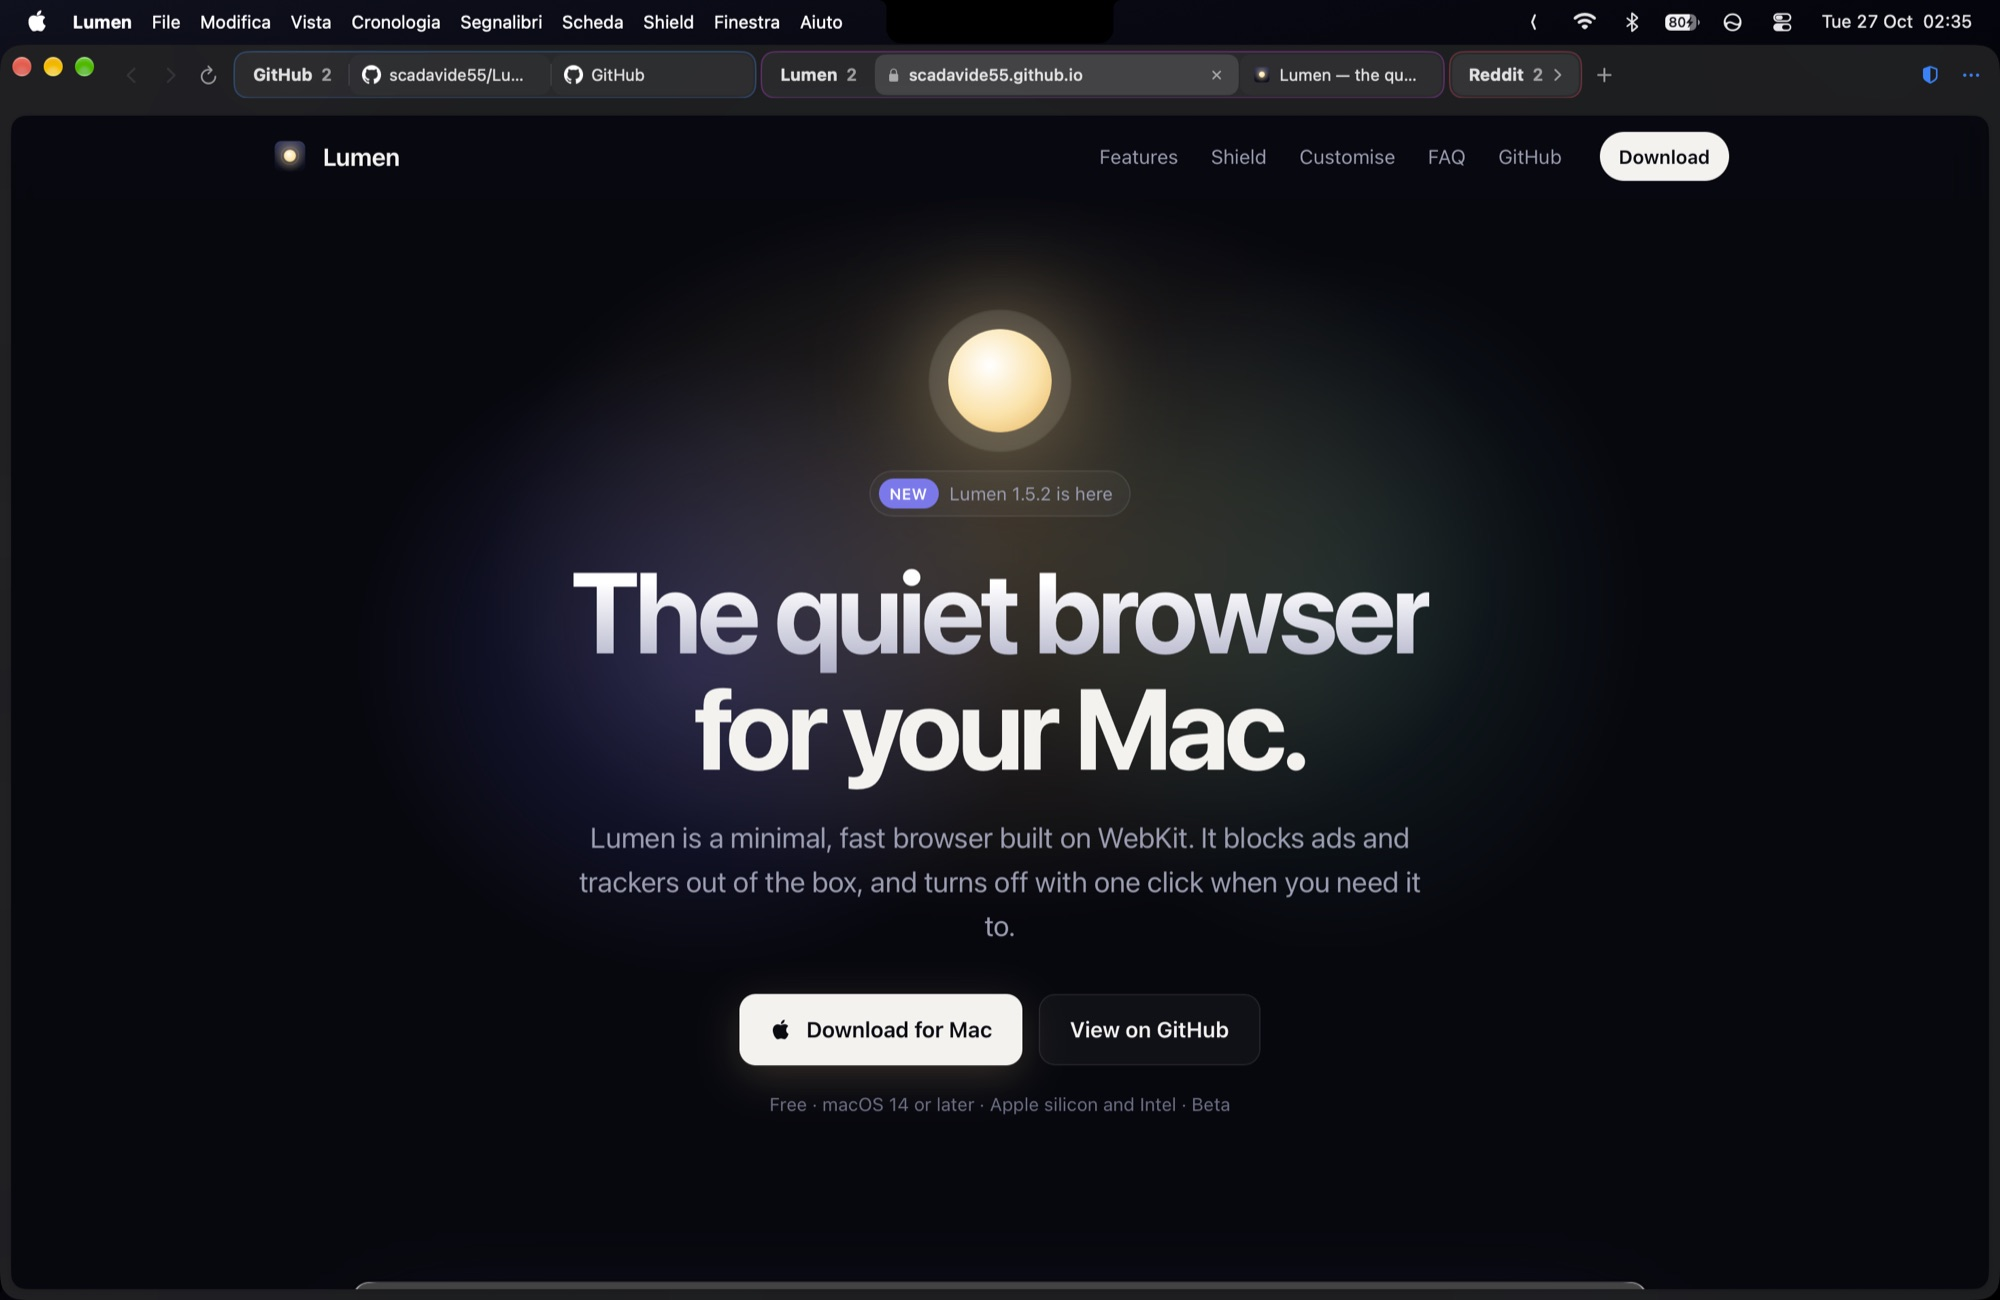
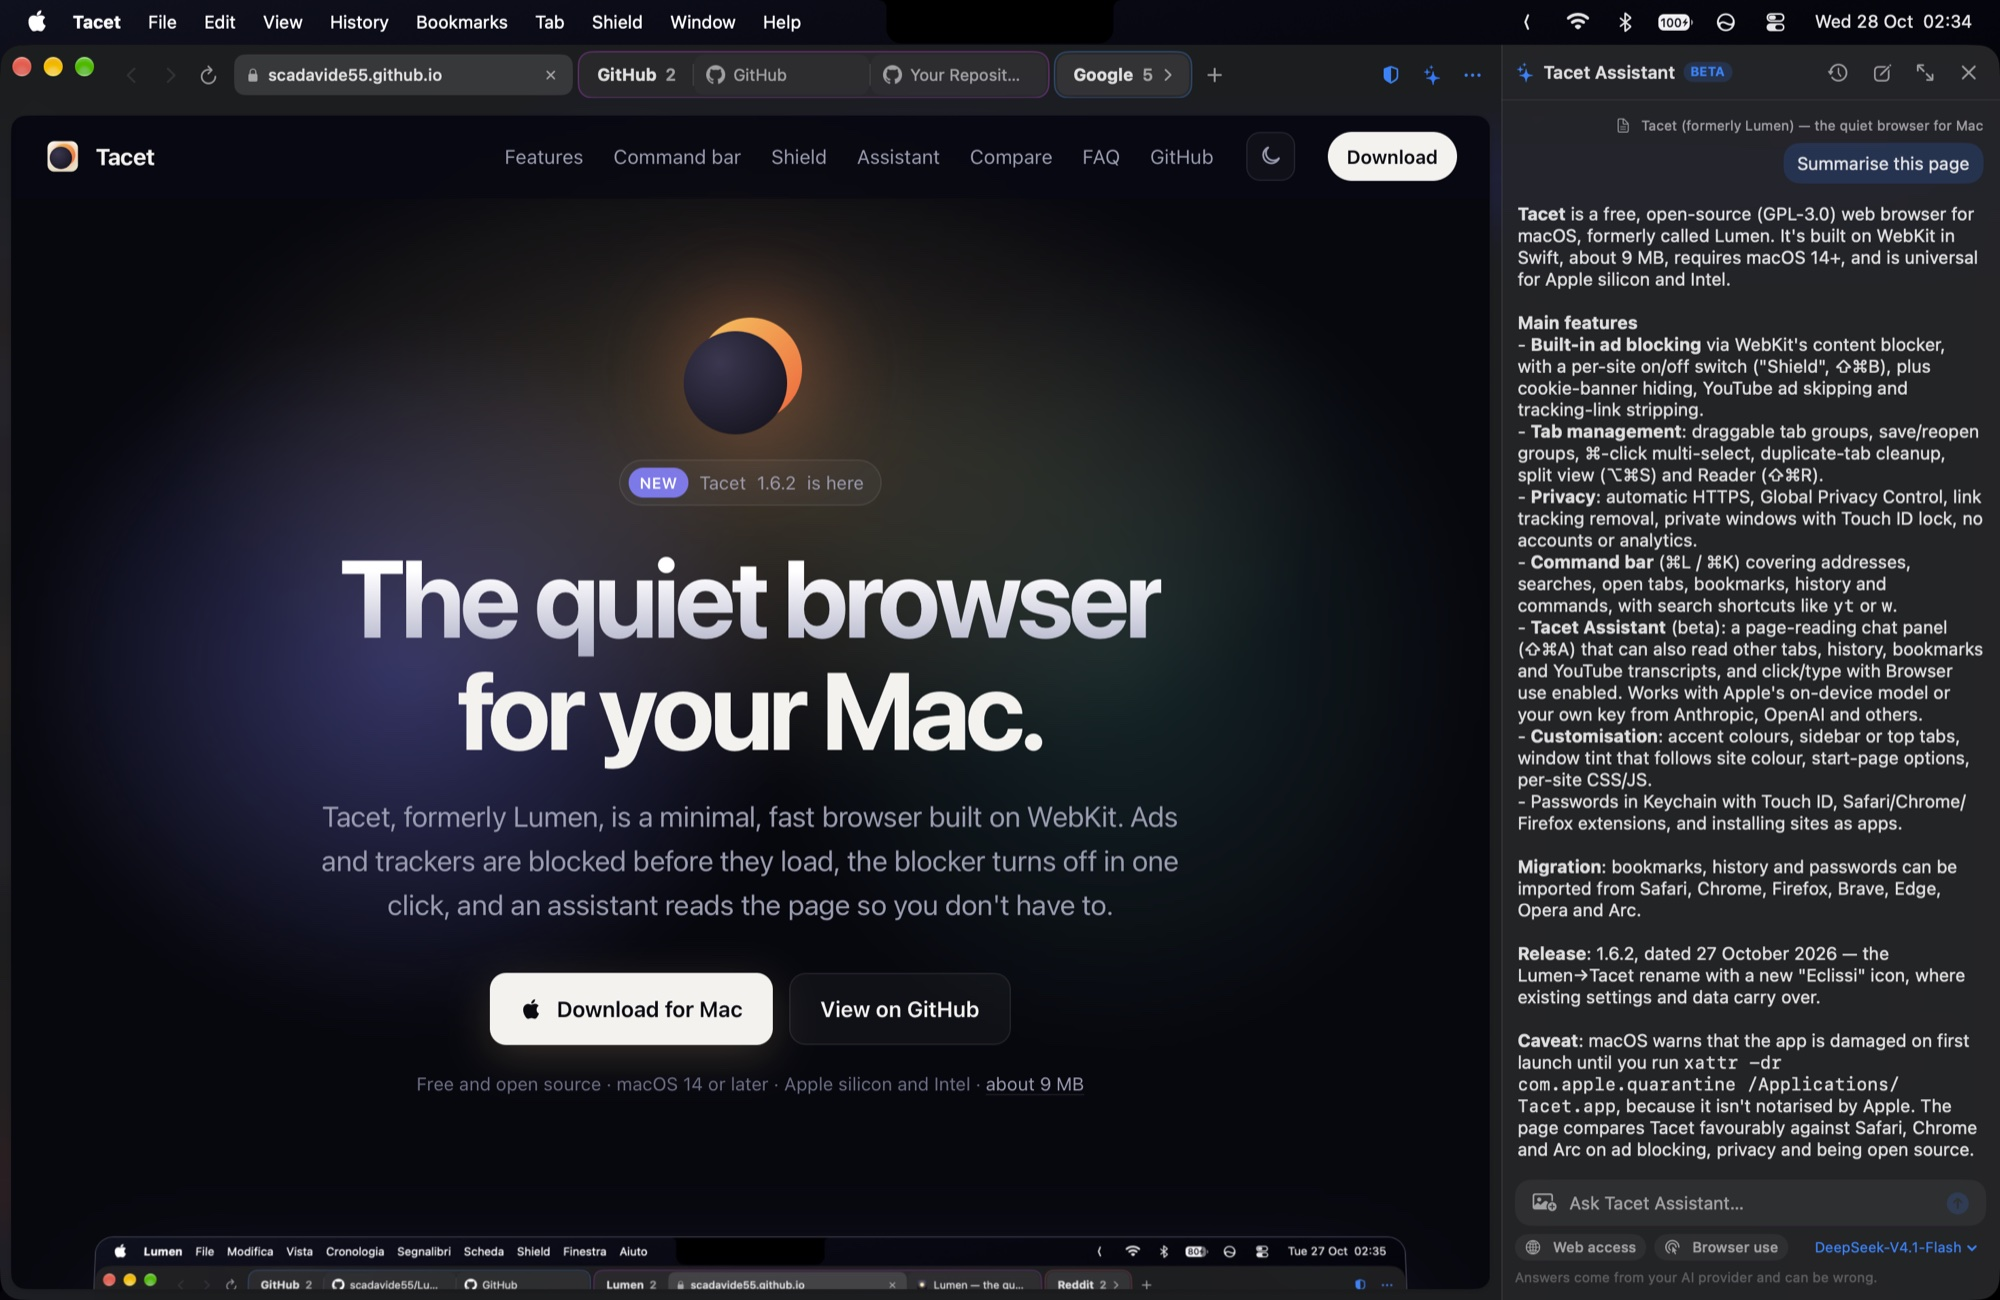
New main screenshot: Tacet with its website open and Tacet Assistant summarising it

diff --git a/docs/index.html b/docs/index.html
@@ -596,7 +596,7 @@ footer .bottom { margin-top: 36px; padding-top: 20px; border-top: 1px solid var(
     </div>
     <p class="fine">Free and open source · macOS 14 or later · Apple silicon and Intel · <a href="#download">about 9 MB</a></p>
     <figure class="shot" id="shot">
-      <div class="frame"><img src="assets/screenshot.jpg" width="2000" height="1300" alt="The Tacet window with tabs along the top and the Tacet website open" fetchpriority="high"></div>
+      <div class="frame"><img src="assets/screenshot.jpg" width="2000" height="1300" alt="Tacet with its website open and Tacet Assistant summarising the page" fetchpriority="high"></div>
       <div class="chip c1" aria-hidden="true">
         <svg viewBox="0 0 24 24" fill="currentColor"><path d="M12 2l8 3.4v5.8c0 5-3.4 9.5-8 10.8-4.6-1.3-8-5.8-8-10.8V5.4L12 2z" opacity=".35"/><path d="M12 2v20c-4.6-1.3-8-5.8-8-10.8V5.4L12 2z"/></svg>
         <div><b><span id="chip-n">0</span> blocked</b><span>on this page</span></div>

diff --git a/README.md b/README.md
@@ -20,8 +20,8 @@ A minimal, fast and private macOS browser built on WebKit, with a native ad bloc
 
 [**Download**](https://github.com/scadavide55/Tacet/releases) · [**Website**](https://scadavide55.github.io/Tacet/) · [**Release notes**](https://github.com/scadavide55/Tacet/releases)
 
-*Image from Lumen 1.5.3 Developer Beta*
-<img src="docs/assets/screenshot.jpg" alt="The Tacet window with tabs along the top" width="860">
+*Image from Tacet 1.6.2*
+<img src="docs/assets/screenshot.jpg" alt="Tacet with its website open and Tacet Assistant summarising the page" width="860">
 
 <img src="docs/assets/groups.png" alt="Tab groups along the top of the Tacet window, each in its own colour" width="860">
 
